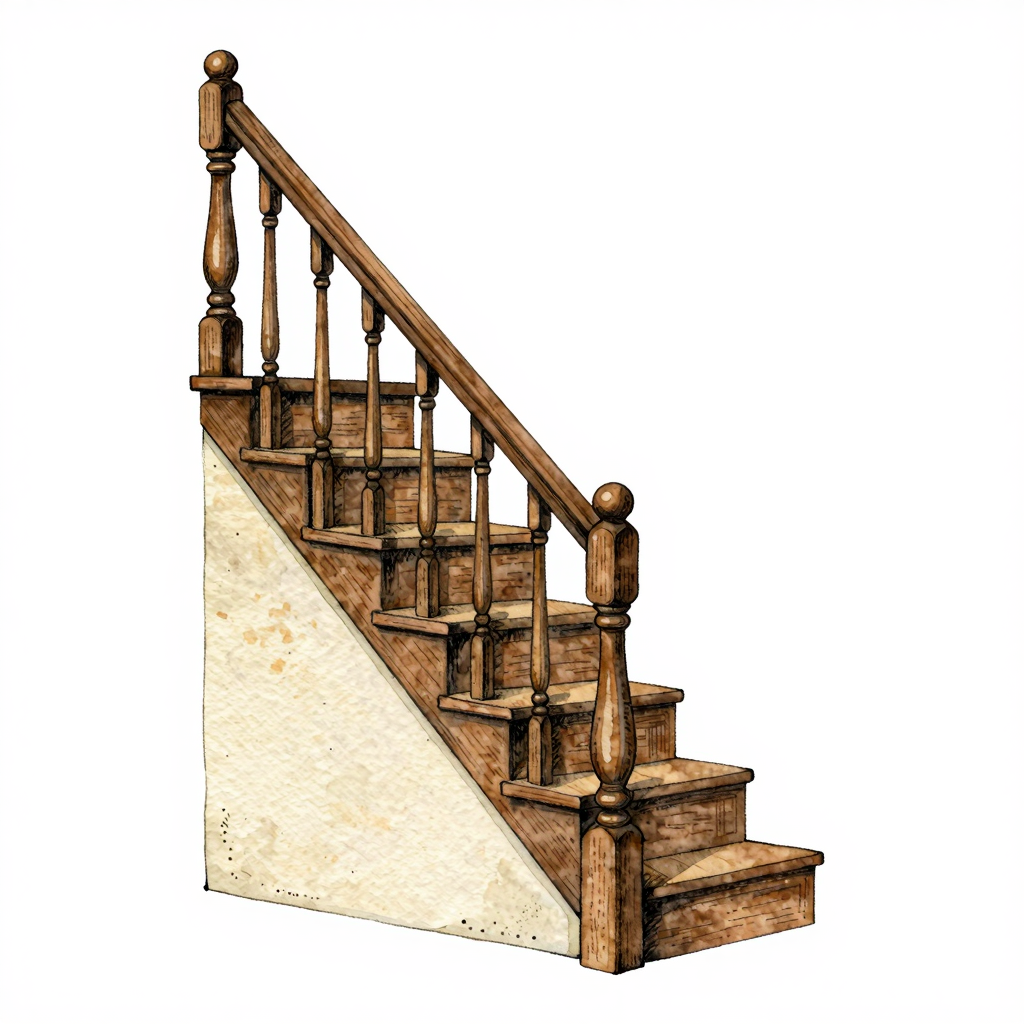
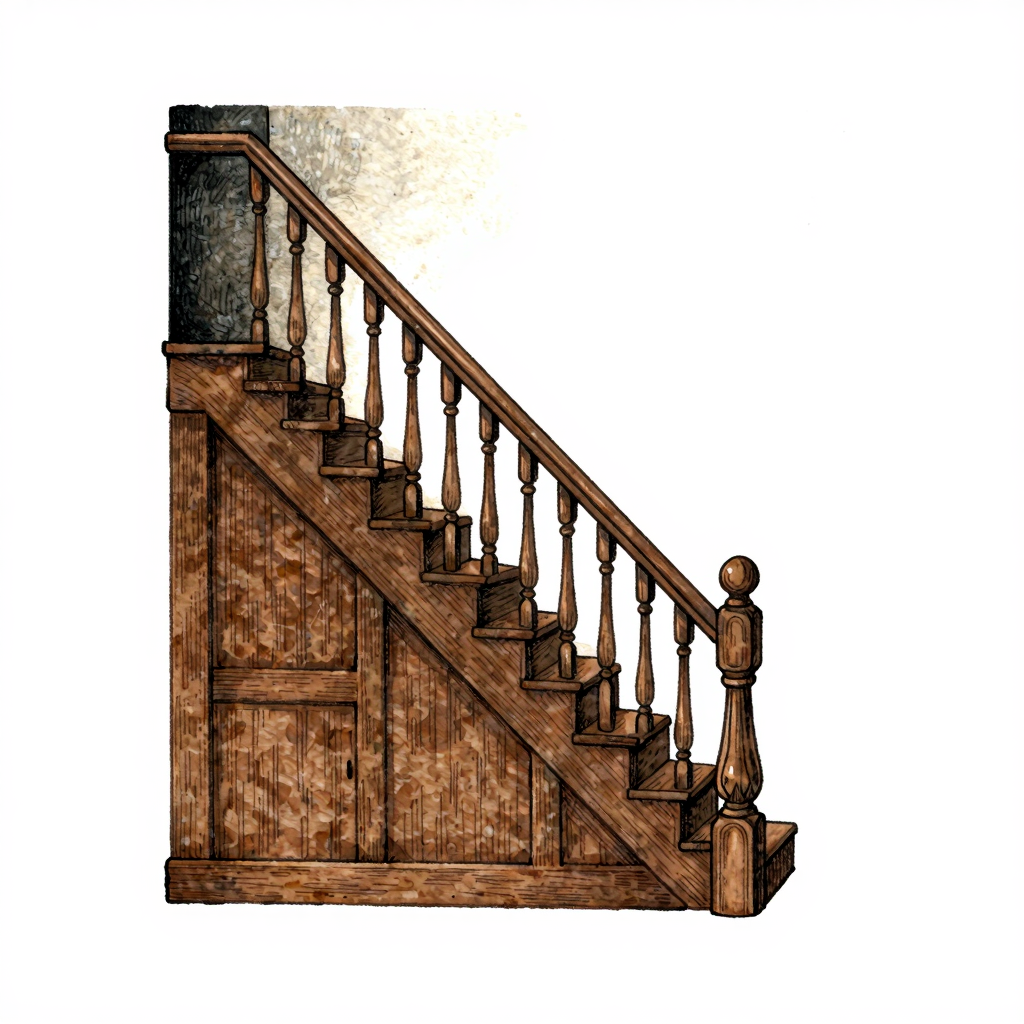
feat: living room laid out in metres, seats, new decor, new stairs (Phase B pilot)
User approval 2026-11-20 (plan in docs/art/environments/LIVING_ROOM.md §10).

- living room re-laid in metres on its 7 x 5 m floor: fireplace, clock,
  window, portrait, landscape and bookshelf along the back wall; olive
  armchair and tea table by the fireplace; sofa mid-room with its side
  table; grandma's armchair with the floor lamp; a 2.5 x 1.8 m rug; both
  door zones kept clear
- new pieces painted and placed: a gramophone on a cabinet, a fern on a
  stand, a potted palm
- seats (furniture.json "seats", metres): where each family member rests
  or plays when the activity names no object — father and mother on the
  sofa, grandma and grandpa in the armchairs, the children on the rug;
  RoomLayout.slot
- walking footprints of the living room's kinds at their real sizes; the
  olive armchair, tea table and gramophone are real obstacles (the decor
  test caught routes crossing the last two)
- rugs sized in metres for the room on screen (RoomGeometry.ROOM_SIZE_M)
- stairs regenerated: the hall's straight flight climbs into the ceiling
  with a cupboard under it; the corridor's banister railing over the way
  down (the first tries kept as stairs_v1)
- tests: seats in metres (mutation-checked); the decor route test uses the
  seats; 289 pass

Story: Rooms of real sizes, Phase B (ENVIRONMENT_GUIDELINES.md §9)

diff --git a/docs/art/environments/LIVING_ROOM.md b/docs/art/environments/LIVING_ROOM.md
@@ -6,6 +6,7 @@
 | Concept `living_room_cozy.jpeg` | **APPROVED as the Phase 1 visual target** (user decision 2026-11-15) — its look, not its perspective or geometry |
 | Full-size haunted concept | OPEN — none yet |
 | Painted fireplace (art Phase 3 trial) | **APPROVED** — built and approved 2026-11-15 (§8); shrunk to 76 % (scale 0.38) for the real-world scale, 2026-11-20 |
+| Layout in metres (Phase B pilot) | **Built 2026-11-20, awaiting user review** (§10) |
 | Painted props (art Phase 4) | **Built 2026-11-20, awaiting user review** — window (closed / open), sofa, both armchairs, side and tea tables, wall clock (painted hands: a stopped clock), both paintings, bookshelf; brass floor lamp (lit / out); rug 2.5 × 1.8 m and side-wall portraits ~60 % (still code-drawn); evidence `production/qa/evidence/art-phase4-props/` |
 
 The first and so far only room in the storybook style.
@@ -176,6 +177,65 @@ inside the firebox; cozy and haunted.
   surface cut into many thin strips. Cheaper art, more code, plank/panel lines less controllable.
 - Either way: painted wall art must leave the door openings to the code (doors differ per room),
   and must not bake in light or the wainscot's state.
+
+## 10. Phase B — laid out in metres (user approval 2026-11-20)
+
+The room is **7 × 5 m** (`rooms.json` size_m). Positions below are metres from the left wall (x)
+and the back wall (depth); `furniture.json` stores them as fractions of the room (u = x / 7,
+v = depth / 5). Walking footprints are the pieces' real sizes (`movement.json`).
+
+```
+      back wall
+   +--------------------------------------------------------+
+0.0|      FFFFFFFFFFFFFF                           BBBBBBB  |
+0.2|                                               BBBBBBB  |
+0.5|                                                        |
+0.8|   oooooo                                               |
+1.0|   oooooo                                       GGGGG   |
+1.2|   ooo4oo tttt                                  GGGGG   |
+1.5|          tttt                                          |
+1.8|                SSSSSSSSSSSSSSSS ssss                   |
+2.0D........        SSSSSSSSSSSSSSSS ssss           ........D
+2.2D........        SSSS1SSSSSS2SSSS                ........D
+2.5D........        SSSSSSSSSSSSSSSS~~~~ lllAAAAAAA ........D
+2.8D........        ~~~~~~~~~~~~~~~~~~~~    AAAAAAA ........D
+3.0|                ~~~~~~~~~~~~~~~~~~~~    AAA3AAA         |
+3.2|                ~~~~~~~~~~~~~~~~~~~~                    |
+3.5|                ~~~5~~~~~~~~6~~~~~~~                    |
+3.8|                ~~~~~~~~~~~~~~~~~~~~                    |
+4.0|  fffff                                          ppppp  |
+4.2|  fffff                                          ppppp  |
+4.5|  fffff                                          ppppp  |
+4.8|                                                        |
+   +--------------------------------------------------------+
+    0 m                                              7 m   (front, open side: camera)
+  L  landscape painting (wall, 1.3 m up)  at 0.40, 0.05 m  (0.6 x 0.1)
+```
+
+| Piece | x, depth (m) | Role |
+|---|---|---|
+| Landscape painting | 0.4 (wall, 1.3 m up) | decor |
+| Fireplace | 1.6 (wall) | decor |
+| Wall clock | 2.95 (wall, 1.15 m up) | decor |
+| Window | 4.2 (wall) | `window_living_room` |
+| Portrait | 5.45 (wall, 1.25 m up) | decor |
+| Bookshelf | 6.35, 0.3 | decor |
+| Gramophone on a cabinet **(new)** | 6.35, 1.25 | furniture (an obstacle: it stands in the way to the window) |
+| Olive armchair | 0.75, 1.1 | furniture — grandpa's seat (was decor) |
+| Tea table | 1.45, 1.45 | furniture (was decor: routes to grandpa crossed it) |
+| Sofa | 3.0, 2.2 | hiding spot — father's and mother's seats |
+| Side table | 4.35, 2.1 | furniture |
+| Floor lamp | 4.8, 2.6 | `lamp_living_room` |
+| Grandma's armchair | 5.45, 2.95 | `grandma_armchair`, hiding spot — grandma's seat |
+| Rug 2.5 × 1.8 m | 3.2, 3.2 | walked over — son and daughter (her dolls) |
+| Fern on a stand **(new)** | 0.55, 4.35 | decor |
+| Potted palm **(new)** | 6.45, 4.35 | decor |
+
+**Doors:** left (workshop) and right (hall) at depth 2.5 m; a 1 m clear zone in front of each
+holds nothing. **Seats** (`furniture.json` "seats", metres): where each family member rests or
+plays when the activity names no object — father 2.55, 2.35; mother 3.45, 2.35; grandma 5.45,
+3.05; grandpa 0.75, 1.25; son 2.4, 3.7; daughter 3.6, 3.5. The decor test checks that no route
+between the doors, the work spots and the seats crosses decor.
 
 ## 9. Open
 
